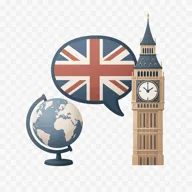
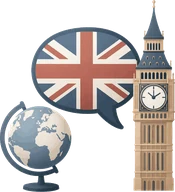
SIKORE und Tipptrainer in den Übungstrainer-Ordner; Karomuster aus den vier neuen Fächer-Bildern entfernt

diff --git a/index.html b/index.html
@@ -6916,7 +6916,8 @@ function renderFolderContents(){
   if(grFachEl) grFachEl.hidden = !!here;   // Gruppen-Übungen nur auf der Fach-Hauptebene
 
   var folders = foldersIn(here);
-  var resources = resourcesIn(here);
+  // imHub: SIKORE und Tipptrainer stehen im ⚡ Übungstrainer, nicht noch einmal im Fach.
+  var resources = resourcesIn(here).filter(function(r){ return !r.imHub; });
   // Virtuelle LMVZ-Einträge lassen sich weder sortieren noch bearbeiten —
   // Pfeile/Nummern gelten nur unter den echten Einträgen.
   var realFolders = folders.filter(function(f){ return !f.virtual; });
@@ -13210,6 +13211,7 @@ const NEUIGKEITEN = [
   {id:'2026-09-20-schneller-start', datum:'2026-09-20', fuer:'alle', text:'⚡ Die Startseite lädt jetzt viel schneller – die Fächer-Bilder sind zehnmal kleiner geworden, ohne dass man es sieht. Das hilft vor allem auf dem Handy und bei schwachem WLAN.'},
   {id:'2026-09-20-speicher-schneller', datum:'2026-09-20', fuer:'lehrer', text:'💾 ⚙ Einstellungen › «💾 Mein Speicher» öffnet schneller, und der Prüfungs-Schnelltest räumt seinen Zwischenspeicher selbst auf.'},
   {id:'2026-09-20-fach-bilder', datum:'2026-09-20', fuer:'alle', text:'🎨 Mathe, Deutsch, Englisch und Französisch haben neue Bilder bekommen.'},
+  {id:'2026-09-20-trainer-sammelt', datum:'2026-09-20', fuer:'alle', text:'⚡ 🧮 SIKORE und ⌨ der Tipptrainer stecken jetzt auch im «Übungstrainer»: In Mathe bzw. in Medien und Informatik findest du sie dort zuoberst bei den übrigen Trainings – dein Level und dein Fortschritt bleiben natürlich erhalten.'},
   {id:'2026-09-20-pruefung-art-klasse', datum:'2026-09-20', fuer:'lehrer', text:'📝 Prüfungen: nur noch ein Knopf «➕ Neue Prüfung» – die Art (📄 aus einer Übung, 🧮 SIKORE, ⌨ Tastaturschreiben) wählst du zuoberst im Dialog. Neu stellst du dort auch die Klasse ein (die Library wechselt dann dorthin) und unter «Für», ob die ganze Klasse oder nur eine deiner 👥 Gruppen die Prüfung schreibt – die übrigen sehen sie gar nicht.'},
   {id:'2026-09-20-tipp-pruefung', datum:'2026-09-20', fuer:'lehrer', text:'⌨ Prüfungen › «⌨ Neue Tipp-Prüfung»: klassische Abschreibprüfung im Prüfungsmodus – alle tippen denselben Text auf Zeit (Sätze aus dem Tipptrainer oder dein eigener Text). Bewertet werden die Netto-Anschläge pro Minute (Abzug pro Fehler einstellbar), Notengrenzen für 6 und 4 wählbar; die Note landet im Notenrechner.'},
   {id:'2026-09-20-tipp-pruefung-alle', datum:'2026-09-20', fuer:'alle', text:'⌨ Neu: Tipp-Prüfungen. Du schreibst einen Text auf Zeit ab – bei einem Fehler wartet der Cursor, bis du die richtige Taste triffst. Üben kannst du in Medien und Informatik im Tipptrainer.'},
@@ -18561,7 +18563,7 @@ function sikoreStufenHtml(aktiv, eigenes){
 function sikoreVirtuell(){
   return {
     folders:[],
-    resources:[{id:'sikore_trainer', subject:'mathe', folderId:null, order:-2000, virtual:true, sikore:true,
+    resources:[{id:'sikore_trainer', subject:'mathe', folderId:null, order:-2000, virtual:true, sikore:true, imHub:true,
       title:'🧮 SIKORE – Sicher Kopfrechnen'}]
   };
 }
@@ -18589,11 +18591,10 @@ async function sikoreMeinLevel(){
 }
 var sikoreT = null;
 function renderSikoreTrainer(r){
-  var s = subjectById(r.subject);
   var gemerkt = +lsGet('libsikore_level') || 0;
   sikoreT = {level:gemerkt || 1, eigen:null, reihen:+lsGet('libsikore_reihen') || 1, laenge:12, seed:0, data:null, ans:{}, erg:null, t0:null, tempo:lsGet('libsikore_tempo') === '1', stats:null};
   var html = '<div class="sk-wrap">';
-  html += '<div class="back-row"><button class="btn btn-ghost btn-sm" id="backBtn">&larr; '+esc(s ? s.name : 'Mathe')+'</button></div>';
+  html += '<div class="back-row"><button class="btn btn-ghost btn-sm" id="backBtn">&larr; Übungstrainer</button></div>';
   html += '<div class="sk-hero"><div class="sk-hero-deko" aria-hidden="true"><span>+</span><span>−</span><span>·</span><span>:</span><span>=</span><span>∑</span></div>'+
     '<div class="sk-hero-titel"><span class="sk-logo">SIKORE</span><span class="sk-sub">Sicher Kopfrechnen</span></div>'+
     '<p>Rechne im Kopf und schreib jedes Ergebnis ins Kästchen. Mit deinem Ergebnis rechnest du gleich weiter. Am Zeilenende steht die <b>Quersumme</b> (QS) des richtigen Ergebnisses – so merkst du selbst, ob du noch auf Kurs bist.</p></div>';
@@ -18610,7 +18611,7 @@ function renderSikoreTrainer(r){
   html += '<p class="sk-quelle">Aufgaben nach <a href="https://sikore.schiffner-tischer.de" target="_blank" rel="noopener">SIKORE</a> von Christian Schiffner-Tischer.</p>';
   html += '</div>';
   renderChrome(html);
-  document.getElementById('backBtn').addEventListener('click', function(){ goSubject(r.subject, r.folderId || null); });
+  document.getElementById('backBtn').addEventListener('click', function(){ goResource(mtHubRes(r.subject || 'mathe')); });
   document.getElementById('skLvMinus').addEventListener('click', function(){ sikoreLevelSetzen(sikoreT.level - 1); });
   document.getElementById('skLvPlus').addEventListener('click', function(){ sikoreLevelSetzen(sikoreT.level + 1); });
   document.getElementById('skTreppe').addEventListener('click', function(e){ var b = e.target.closest('[data-level]'); if(b) sikoreLevelSetzen(+b.getAttribute('data-level')); });
@@ -20142,7 +20143,19 @@ function mtFachTrainer(subject){ return MT_TRAINER.filter(function(t){ return t.
 function mtRes(t){ return {id:t.id, subject:t.fach, folderId:null, order:-1990, virtual:true, mt:true, title:t.icon+' '+t.name}; }
 // Im Fach erscheint nur die Übersicht; die einzelnen Trainer öffnet man von dort.
 function mtHubRes(subject){ return {id:'mt_hub_'+subject, subject:subject, folderId:null, order:-1999, virtual:true, mtHub:true, title:'⚡ Übungstrainer'}; }
-function mtVirtuell(subject){ return mtFachTrainer(subject).length ? [mtHubRes(subject)] : []; }
+// 🧮 SIKORE und ⌨ Tipptrainer sind keine generativen MT_TRAINER, gehören im Fach
+// aber in denselben Übungstrainer-Ordner — hier als Kachel-Beschreibung.
+function mtZusatz(subject){
+  var z = [];
+  if(subject === 'mathe') z.push({res:sikoreVirtuell().resources[0], icon:'🧮', name:'SIKORE – Sicher Kopfrechnen',
+    kurz:'Kettenrechnungen im Kopf – immer wieder neue, mit Quersumme zur Kontrolle.',
+    grad:'linear-gradient(135deg,#1F3A5F 0%,#2C5C8F 55%,#3A7BBF 100%)', lv:SIKORE_LEVELS.length+' Level'});
+  if(subject === TIPP_SUBJECT) z.push({res:tippVirtuell(TIPP_SUBJECT)[0], icon:'⌨', name:'Tipptrainer – 10-Finger-System',
+    kurz:'Blind tippen lernen, Lektion für Lektion.',
+    grad:'linear-gradient(135deg,#5B2A6E 0%,#A8327F 55%,#D6449B 100%)', lv:TIPP_LEKTIONEN.length+' Lektionen'});
+  return z;
+}
+function mtVirtuell(subject){ return mtFachTrainer(subject).length || mtZusatz(subject).length ? [mtHubRes(subject)] : []; }
 // Für die Lernphase («nur in dieser Übung») braucht es alle einzeln.
 function mtVirtuellAlle(){
   var faecher = [];
@@ -20152,26 +20165,36 @@ function mtVirtuellAlle(){
 
 /* ---------- Übersicht (Hub) ---------- */
 function renderMtHub(r){
-  var s = subjectById(r.subject), liste = mtFachTrainer(r.subject);
-  if(!liste.length){ goSubject(r.subject, null); return; }
+  var s = subjectById(r.subject), liste = mtFachTrainer(r.subject), zusatz = mtZusatz(r.subject);
+  if(!liste.length && !zusatz.length){ goSubject(r.subject, null); return; }
   var html = '<div class="mt-wrap">';
   html += '<div class="back-row"><button class="btn btn-ghost btn-sm" id="backBtn">&larr; '+esc(s ? s.name : 'Fach')+'</button></div>';
   html += '<div class="mt-hero" style="background:'+(s && s.color ? 'linear-gradient(135deg,'+s.color+' 0%,'+s.color+' 38%,color-mix(in srgb, '+s.color+' 58%, #ffffff) 100%)' : 'linear-gradient(135deg,#1F3A5F 0%,#2C5C8F 55%,#3A7BBF 100%)')+'">'+
-    '<div class="mt-hero-deko" aria-hidden="true">'+liste.slice(0, 6).map(function(t){ return '<span>'+esc(t.icon)+'</span>'; }).join('')+'</div>'+
+    '<div class="mt-hero-deko" aria-hidden="true">'+zusatz.concat(liste).slice(0, 6).map(function(t){ return '<span>'+esc(t.icon)+'</span>'; }).join('')+'</div>'+
     '<div class="mt-hero-titel"><span class="mt-logo">'+esc((s ? s.name : 'Fach')+'-Trainer')+'</span></div>'+
     '<p>Kurze Trainings für das, was man einfach können muss. Jeder Trainer hat eigene Level – die Aufgaben sind immer wieder neu, und du kontrollierst sofort selbst.</p></div>';
   html += '<div class="mt-kacheln">';
+  zusatz.forEach(function(z){
+    html += '<button type="button" class="mt-kachel" data-zusatz="'+esc(z.res.id)+'"><span class="mt-kachel-icon" style="background:'+z.grad+'">'+esc(z.icon)+'</span>'+
+      '<span class="mt-kachel-text"><b>'+esc(z.name)+'</b><small>'+esc(z.kurz)+'</small><small class="mt-kachel-lv">'+esc(z.lv)+'</small></span>'+
+      '<span class="sk-karte-pfeil" aria-hidden="true">›</span></button>';
+  });
   liste.forEach(function(t){
     html += '<button type="button" class="mt-kachel" data-mt="'+esc(t.id)+'"><span class="mt-kachel-icon" style="background:'+t.grad+'">'+esc(t.icon)+'</span>'+
       '<span class="mt-kachel-text"><b>'+esc(t.name)+'</b><small>'+esc(t.kurz)+'</small><small class="mt-kachel-lv">'+t.levels.length+' Level</small></span>'+
       '<span class="sk-karte-pfeil" aria-hidden="true">›</span></button>';
   });
   html += '</div>';
-  if(r.subject === 'mathe') html += '<p class="sk-quelle">Kopfrechnen mit Kettenaufgaben übst du weiterhin im 🧮 SIKORE-Trainer.</p>';
   html += '</div>';
   renderChrome(html);
   document.getElementById('backBtn').addEventListener('click', function(){ goSubject(r.subject, null); });
   document.querySelector('.mt-kacheln').addEventListener('click', function(e){
+    var z = e.target.closest('[data-zusatz]');
+    if(z){
+      var zd = zusatz.filter(function(x){ return x.res.id === z.getAttribute('data-zusatz'); })[0];
+      if(zd) goResource(zd.res);
+      return;
+    }
     var b = e.target.closest('[data-mt]'); if(!b) return;
     var t = mtDef(b.getAttribute('data-mt'));
     if(t) goResource(mtRes(t));
@@ -20748,15 +20771,14 @@ function tippSterneFuer(L, apm, gen){
 /* ---------- Trainer ---------- */
 function tippVirtuell(subject){
   if(subject !== TIPP_SUBJECT) return [];
-  return [{id:'tippen_trainer', subject:TIPP_SUBJECT, folderId:null, order:-2000, virtual:true, tippen:true, title:'⌨ Tipptrainer – 10-Finger-System'}];
+  return [{id:'tippen_trainer', subject:TIPP_SUBJECT, folderId:null, order:-2000, virtual:true, tippen:true, imHub:true, title:'⌨ Tipptrainer – 10-Finger-System'}];
 }
 var tippT = null;
 function renderTippTrainer(r){
-  var s = subjectById(r.subject);
   tippT = {nr:+lsGet('libtipp_lektion') || 0, schwach:null, text:'', pos:0, fehlerPos:{}, nFehler:0, anschl:{}, fehlerT:{}, t0:null, tLast:null, aktivMs:0, fertig:false,
     anzeige:lsGet('libtipp_anzeige') || 'voll', stats:null, gewaehlt:!!lsGet('libtipp_lektion')};
   var html = '<div class="tt-wrap">';
-  html += '<div class="back-row"><button class="btn btn-ghost btn-sm" id="backBtn">&larr; '+esc(s ? s.name : 'Fach')+'</button></div>';
+  html += '<div class="back-row"><button class="btn btn-ghost btn-sm" id="backBtn">&larr; Übungstrainer</button></div>';
   html += '<div class="tt-hero"><div class="tt-hero-deko" aria-hidden="true"><span>F</span><span>J</span><span>⌨</span></div>'+
     '<div class="tt-hero-titel"><span class="tt-logo">Tipptrainer</span><span class="tt-sub">10-Finger-System</span></div>'+
     '<p>Lerne Schritt für Schritt blind zu tippen – mit allen zehn Fingern, wie es Profis machen. Jede Lektion bringt ein paar neue Tasten. Schaffst du das Tempo-Ziel mit höchstens 5&nbsp;% Fehlern, ist die Lektion bestanden. Lieber regelmässig ein paar Minuten als einmal lange!</p></div>';
@@ -20775,7 +20797,7 @@ function renderTippTrainer(r){
   html += '<div class="sk-aktionen"><button class="btn btn-ghost" id="ttNeu" type="button">🔄 Neuer Text</button></div>';
   html += '</div>';
   renderChrome(html);
-  document.getElementById('backBtn').addEventListener('click', function(){ goSubject(r.subject, r.folderId || null); });
+  document.getElementById('backBtn').addEventListener('click', function(){ goResource(mtHubRes(r.subject || TIPP_SUBJECT)); });
   var anz = document.getElementById('ttAnzeige');
   anz.value = tippT.anzeige;
   anz.addEventListener('change', function(){ tippT.anzeige = this.value; lsSet('libtipp_anzeige', this.value); tippTastaturZeichnen(); tippFokus(); });
